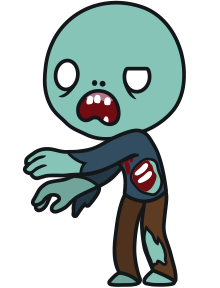
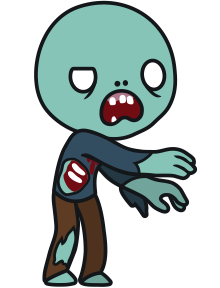
gif test

diff --git a/index.html b/index.html
@@ -13,6 +13,10 @@
       <div class="life-bar">
         <meter class="life-bar" min ="0" max ="100" value="100" id = "barreDeVie"></meter>
       </div>
+      <div class="defeat">
+        <p>You lose !</p>
+        <button type="button" name="button" onclick="recommencer()"> Try Again !</button>
+      </div>
       <div class="randomboost">
         <img src="assets/img/powerboost.png" id="superBoost" onclick="powerBoost()"></img>
       </div>
@@ -20,7 +24,7 @@
         0€
       </div>
       <div class="zombie">
-        <img id="clic" onclick="clicker()"  src="assets/img/zombie.png" alt="">
+        <img id="clic" onclick="clicker()"  src="assets/img/walk/walk.gif" alt="">
       </div>
     </div>
     <div class="items">

diff --git a/assets/js/clicker.js b/assets/js/clicker.js
@@ -91,22 +91,20 @@ function powerBoost(){
     }, 10000);
   }
 function move (){
-  x += 1
-  path += 1
-  if (path > 9 ){
-    path = 1;
-  }
-
+  x += 0.5
   basicZombie.style.left= `${x}px`
-  basicZombie.src = `assets/img/walk/go_${path}.png`
-  console.log(basicZombie.src)
   if (x < 980){
     requestAnimationFrame(move);
   }else {
     basicZombie.style.display= "none";
-
+    document.getElementsByClassName("defeat")[0].style.display = "inline"
   }
 }
+
+function recommencer(){
+    location.reload()
+  }
+
 boost.style.display = "none";
 
-  move()
+move()

diff --git a/assets/css/style.css b/assets/css/style.css
@@ -41,9 +41,14 @@ div.zombie img{
   width: 80%;
 
 }
-.randomboost{
+.defeat {
   grid-row: 2 / span 1;
-  grid-column: 1 / span  3;
+  grid-column: 2 / span  1;
+  text-align: center;
+  font-size: 48px;
+  color: red;
+  margin-top: 100px;
+  display: none;
 }
 #superBoost{
   width: 30px;
